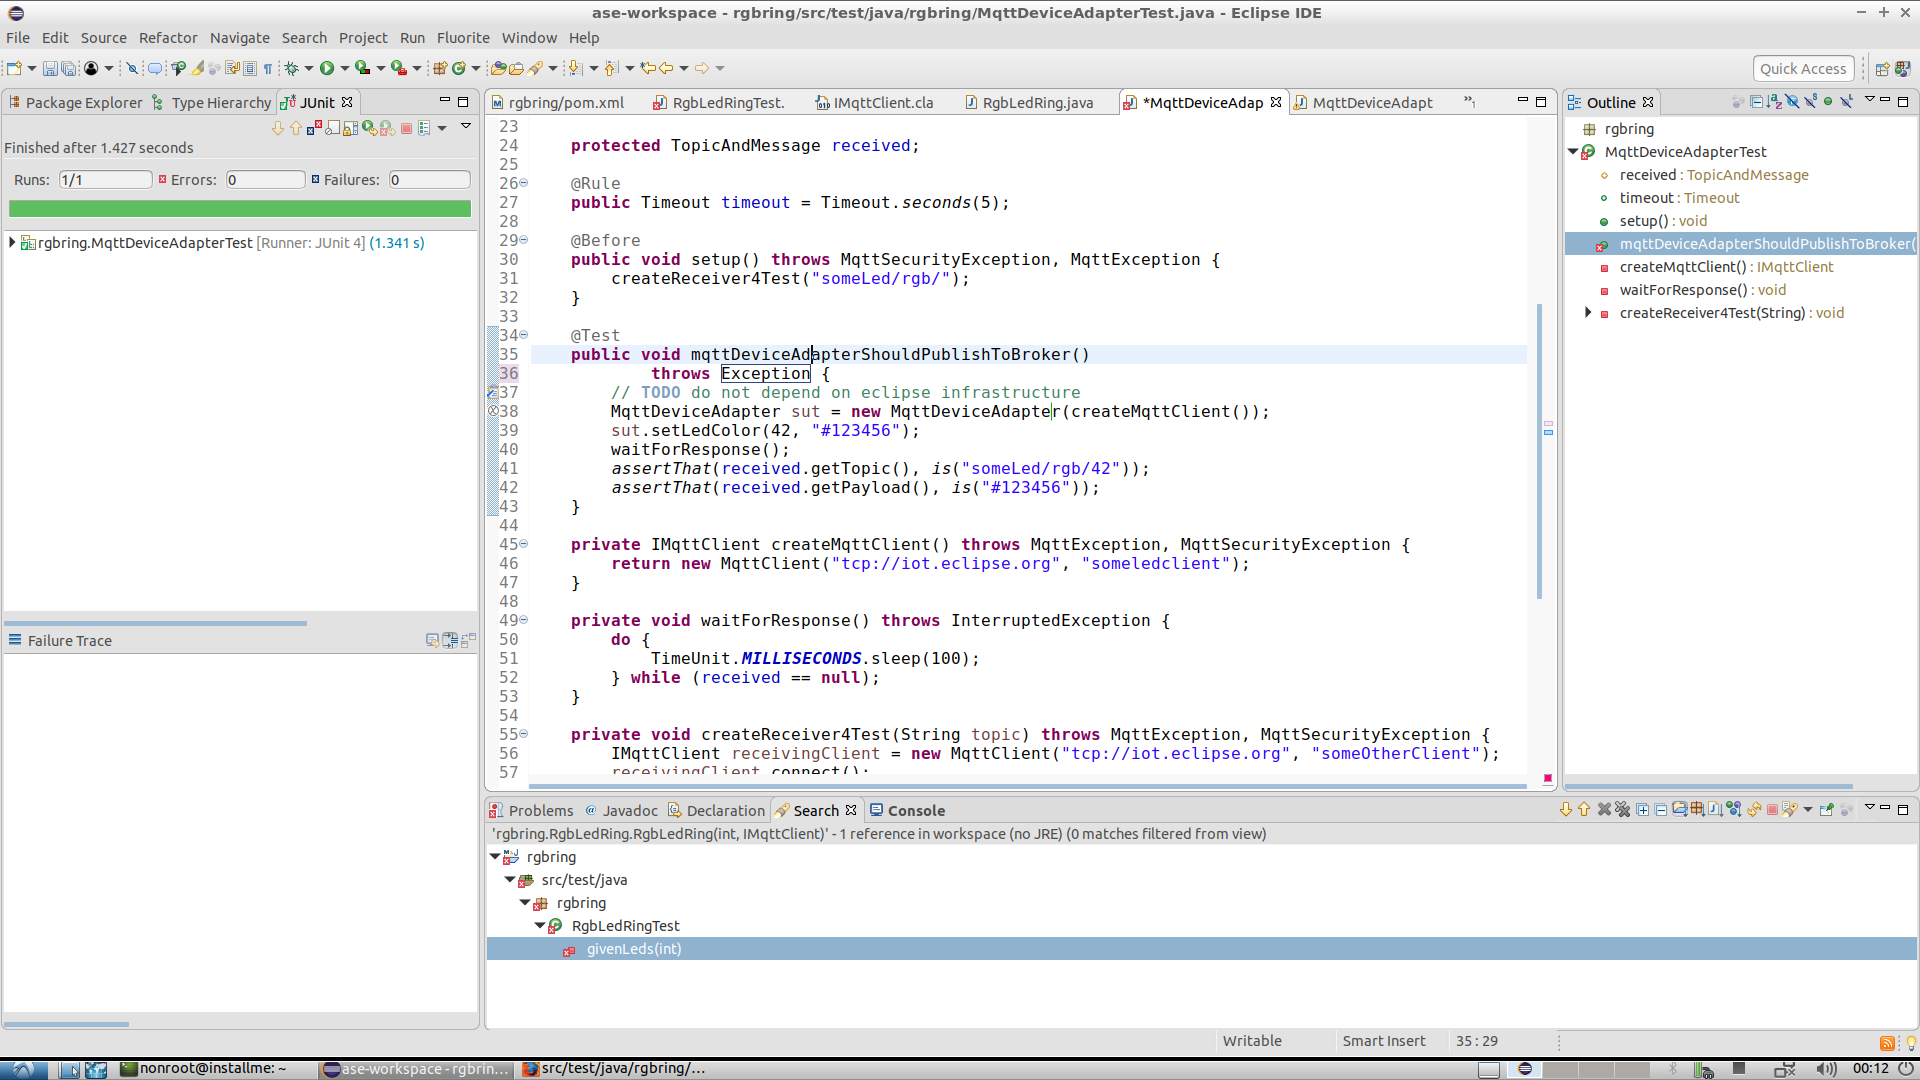
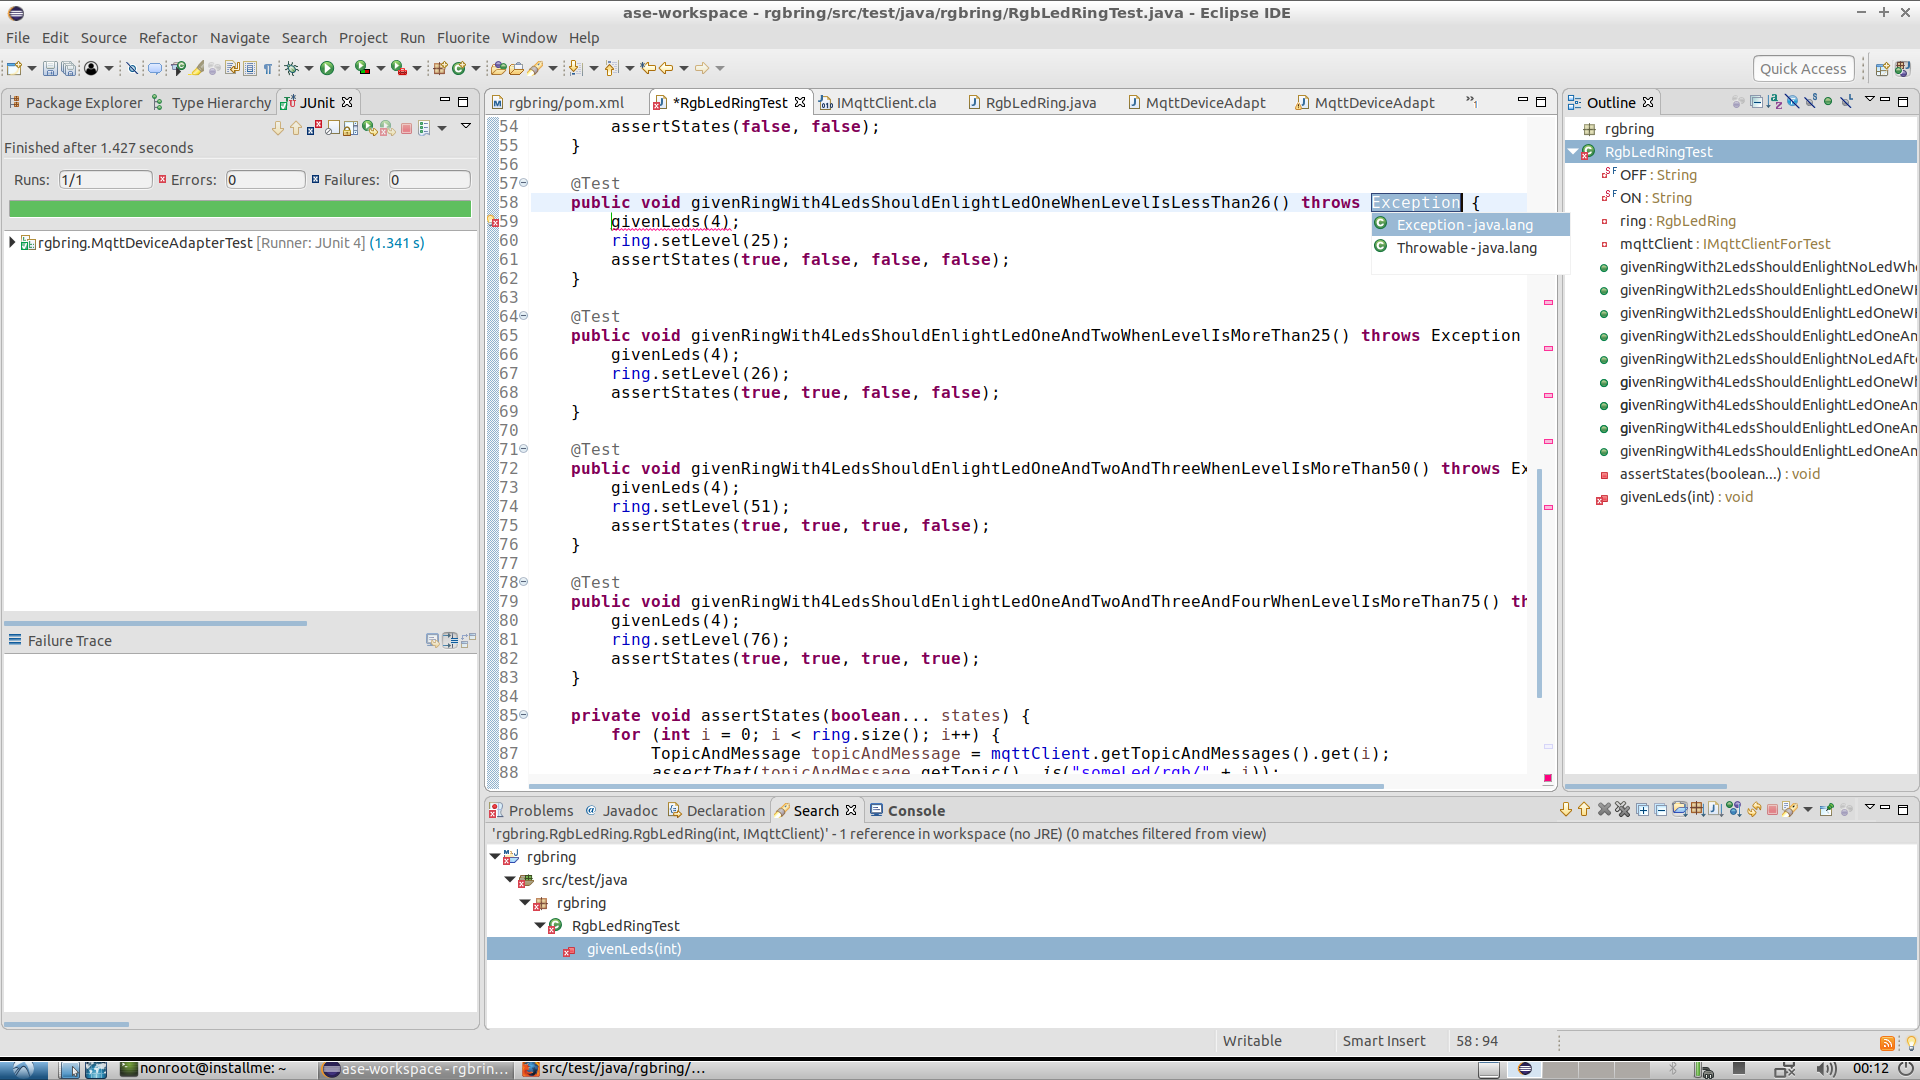
autocommit on change

diff --git a/src/test/java/rgbring/RgbLedRingTest.java b/src/test/java/rgbring/RgbLedRingTest.java
@@ -55,28 +55,28 @@ public class RgbLedRingTest {
 	}
 
 	@Test
-	public void givenRingWith4LedsShouldEnlightLedOneWhenLevelIsLessThan26() {
+	public void givenRingWith4LedsShouldEnlightLedOneWhenLevelIsLessThan26() throws Exception {
 		givenLeds(4);
 		ring.setLevel(25);
 		assertStates(true, false, false, false);
 	}
 
 	@Test
-	public void givenRingWith4LedsShouldEnlightLedOneAndTwoWhenLevelIsMoreThan25() {
+	public void givenRingWith4LedsShouldEnlightLedOneAndTwoWhenLevelIsMoreThan25() throws Exception {
 		givenLeds(4);
 		ring.setLevel(26);
 		assertStates(true, true, false, false);
 	}
 
 	@Test
-	public void givenRingWith4LedsShouldEnlightLedOneAndTwoAndThreeWhenLevelIsMoreThan50() {
+	public void givenRingWith4LedsShouldEnlightLedOneAndTwoAndThreeWhenLevelIsMoreThan50() throws Exception {
 		givenLeds(4);
 		ring.setLevel(51);
 		assertStates(true, true, true, false);
 	}
 
 	@Test
-	public void givenRingWith4LedsShouldEnlightLedOneAndTwoAndThreeAndFourWhenLevelIsMoreThan75() {
+	public void givenRingWith4LedsShouldEnlightLedOneAndTwoAndThreeAndFourWhenLevelIsMoreThan75() throws Exception {
 		givenLeds(4);
 		ring.setLevel(76);
 		assertStates(true, true, true, true);
@@ -91,7 +91,7 @@ public class RgbLedRingTest {
 		}
 	}
 
-	private void givenLeds(int ledCount) {
+	private void givenLeds(int ledCount) throws Exception {
 		this.ring = new RgbLedRing(ledCount, new MqttDeviceAdapter(mqttClient));
 	}
 
